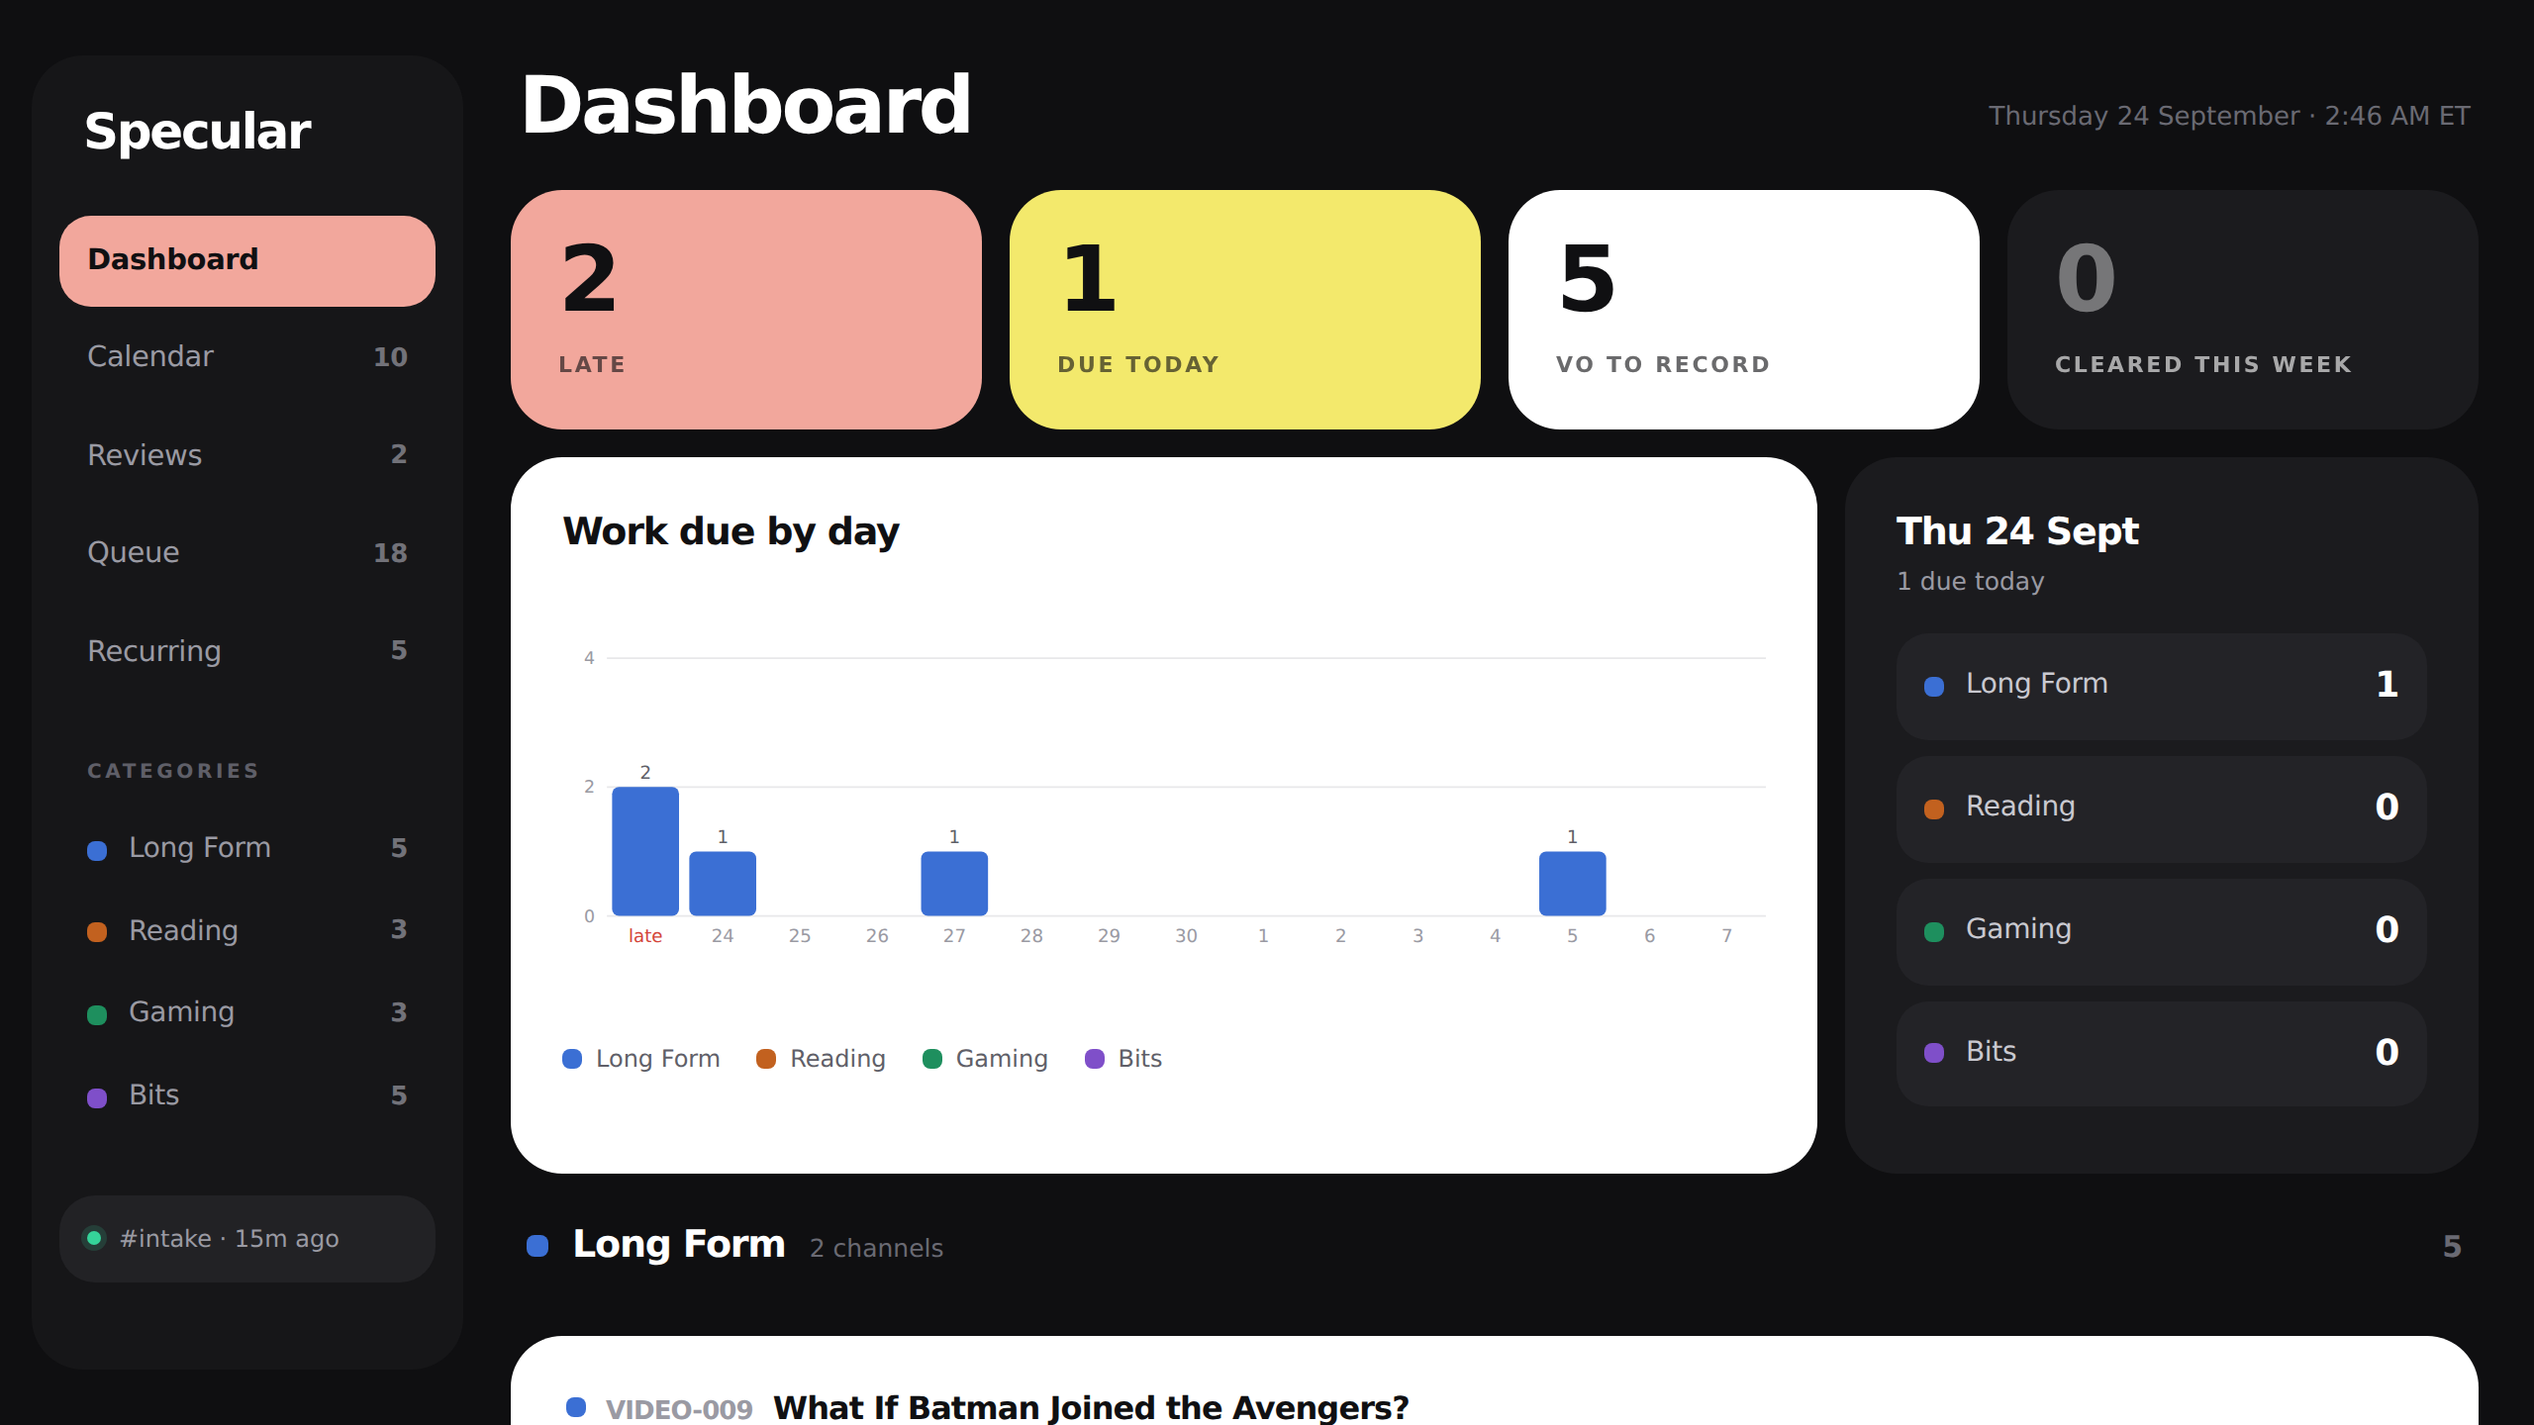
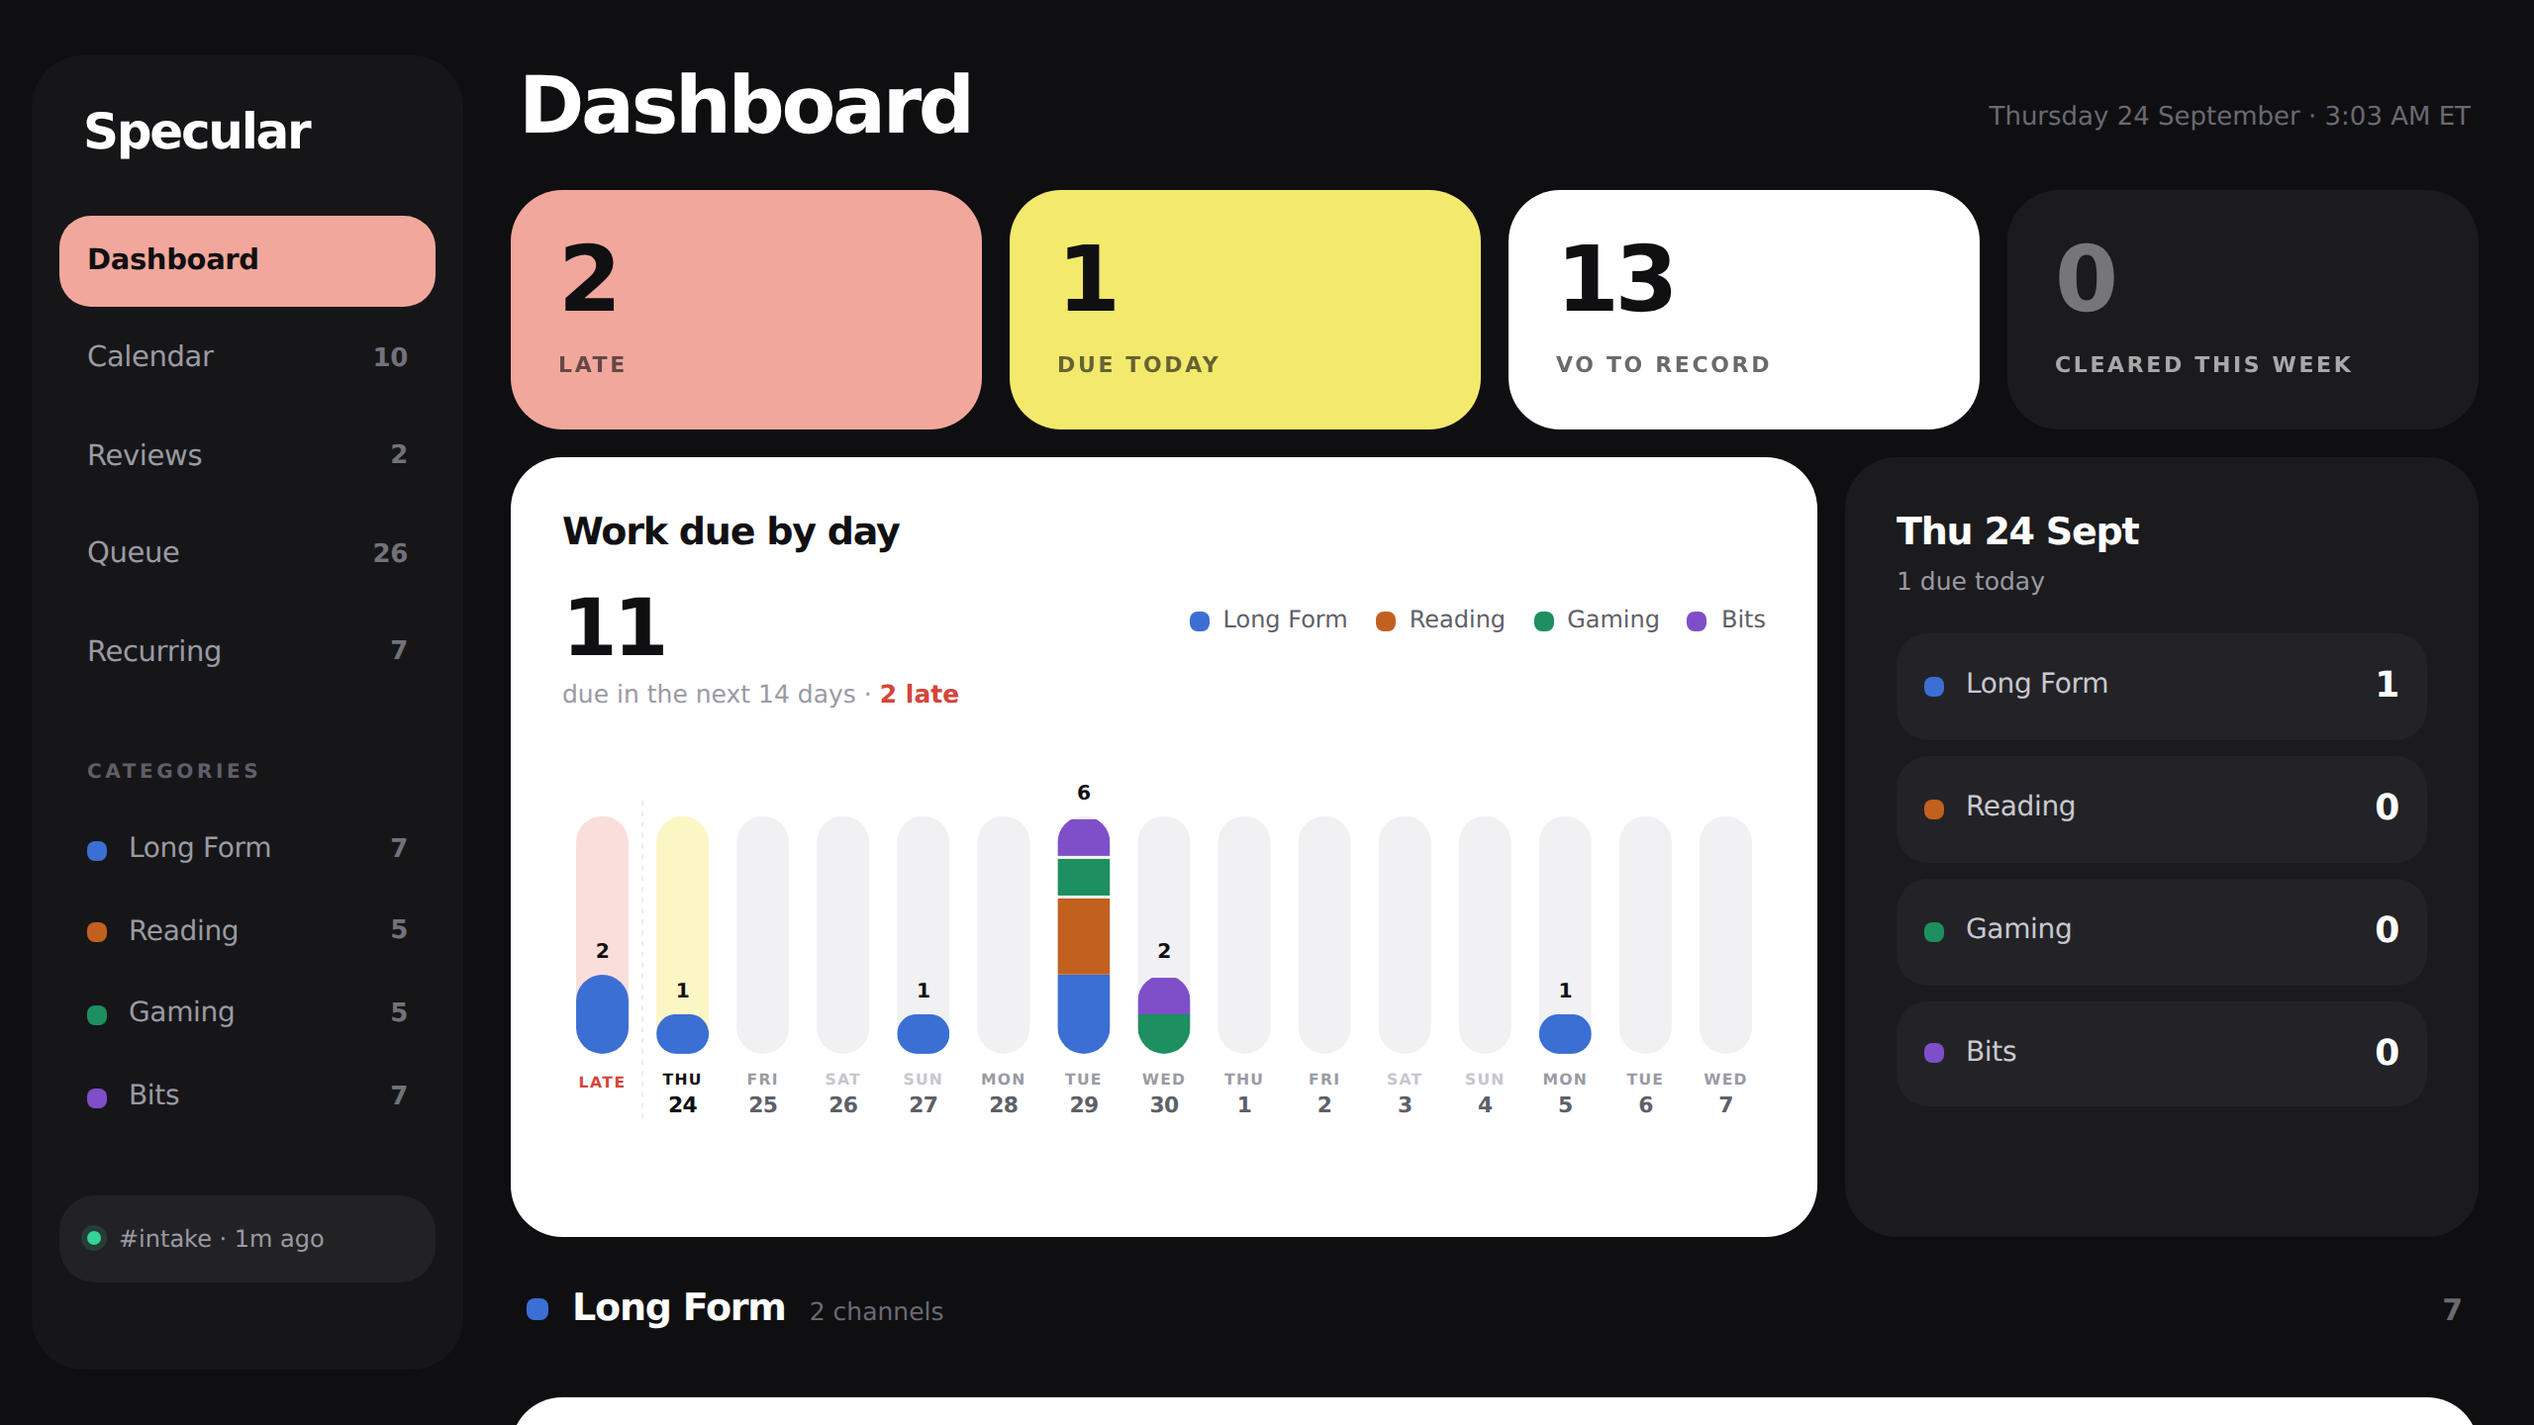
Redesign the chart
It was the one part that still looked borrowed: thin bars floating in a mostly
empty white field, a y-axis of grey ticks, day numbers too small to read.

Now every day keeps its slot as a rounded track whether or not anything is due,
so an empty week reads as empty rather than as missing, and the columns line up
with the card's geometry instead of sitting inside it. Overdue work gets its own
pink column behind a dashed rule — late is a different kind of thing from
scheduled — and today's column is yellow, matching the tile above it, so the
colour language carries across the page.

The y-axis is gone. Each bar states its own count above itself, which is the
number you wanted; a tick scale only asks you to read one number off another.
Labels are the weekday over the date in the studio's own type rather than 10px
grey digits. A headline number leads: how much is due in the fortnight, and how
much is already late.

A stacked bar is now one pill: the segments are clipped to a single rounded
shape with 2px gaps between categories, so a day holding four categories still
reads as one bar. Verified against seeded multi-category days rather than
assumed — the single-category data I had would not have shown a clipping bug.

Claude-Session: https://claude.ai/code/session_01XDwzm3cFSuRZJqUM74mbz3

diff --git a/src/web/page.ts b/src/web/page.ts
@@ -137,11 +137,43 @@ header.page .when { color: #6A6A73; font-size: 13px; margin-left: auto; padding-
 .panel > h2, .group > .head .name, .section-title {
   font-family: var(--display); font-size: 19px; font-weight: 700; letter-spacing: -0.032em; margin: 0 0 18px;
 }
-/* Below a certain width the bars stop being readable, so the chart keeps its
-   size and scrolls rather than shrinking into a smear. */
+.panel > h2 { margin-bottom: 14px; }
+
+/* ── the chart ─────────────────────────────────────────────────────────────
+   A hero number, then columns that keep their slot whether or not anything is
+   due. No y-axis: each bar carries its own count, and a tick scale would only
+   ask you to read one number off another.
+   ────────────────────────────────────────────────────────────────────────── */
+.chart-head { display: flex; align-items: flex-start; gap: 20px; margin-bottom: 2px; flex-wrap: wrap; }
+.chart-head .hero .n {
+  font-family: var(--display); font-size: 40px; font-weight: 800; letter-spacing: -0.05em;
+  line-height: 1; font-variant-numeric: tabular-nums;
+}
+.chart-head .hero .l { color: var(--ink3); font-size: 12.5px; margin-top: 3px; }
+.chart-head .hero .l b { color: var(--late); font-weight: 700; }
+.chart-head .legend { margin: 6px 0 0 auto; gap: 14px; }
+
 .chartscroll { overflow-x: auto; min-width: 0; scrollbar-width: none; -webkit-overflow-scrolling: touch; }
 .chartscroll::-webkit-scrollbar { display: none; }
 .chartscroll svg { display: block; }
+
+.chart .col .track { transition: fill .12s ease; }
+.chart .col:hover .track { fill: #E6E6E9; }
+.chart text.total {
+  font-family: var(--display); font-size: 13px; font-weight: 700; fill: var(--ink);
+  font-variant-numeric: tabular-nums; letter-spacing: -0.02em;
+}
+.chart text.lab { font-family: var(--ui); font-size: 11px; fill: var(--ink3); }
+.chart text.lab.wd { font-size: 10px; font-weight: 600; letter-spacing: 0.08em; text-transform: uppercase; }
+.chart text.lab.wd.weekend { fill: #C6C6CD; }
+.chart text.lab.dn {
+  font-family: var(--display); font-size: 14px; font-weight: 700; fill: var(--ink2);
+  font-variant-numeric: tabular-nums; letter-spacing: -0.03em;
+}
+.chart text.lab.on { fill: var(--ink); font-weight: 700; }
+.chart text.lab.late {
+  font-size: 10px; font-weight: 700; letter-spacing: 0.1em; fill: var(--late);
+}
 .legend { display: flex; gap: 18px; flex-wrap: wrap; margin-top: 16px; font-size: 12px; color: var(--ink2); }
 .legend span { display: flex; align-items: center; gap: 7px; }
 .legend i { width: 10px; height: 10px; border-radius: 4px; background: var(--c); display: block; }
@@ -333,7 +365,11 @@ button.clear:hover { filter: brightness(1.05); }
   .split { grid-template-columns: minmax(0, 1fr); gap: 10px; margin-bottom: 10px; }
   .panel { padding: 18px 18px 20px; border-radius: 20px; }
   .panel > h2, .group > .head .name, .section-title { font-size: 17px; margin-bottom: 14px; }
-  .chartscroll svg { width: 560px; max-width: none; }
+  .chart-head .hero .n { font-size: 34px; }
+  .chart-head .legend { margin-left: 0; }
+  /* Below this width the bars stop being readable, so the chart keeps its size
+     and scrolls rather than shrinking into a smear. */
+  .chartscroll svg { width: 620px; max-width: none; }
   .legend { gap: 12px; font-size: 11.5px; }
 
   /* One column: the title gets the whole width, the deadline sits under it. */
@@ -538,65 +574,113 @@ function rows(list: StoredRecord[], emptyText: string): string {
  * total — colour alone never carries meaning here.
  */
 function dueChart(buckets: DayBucket[]): string {
-  const W = 700, H = 200, PAD_L = 26, PAD_B = 30, PAD_T = 20;
-  const max = Math.max(4, ...buckets.map((b) => b.total));
-  const plotH = H - PAD_B - PAD_T;
-  const slot = (W - PAD_L) / buckets.length;
-  const barW = Math.min(42, slot - 6);
+  const W = 780, H = 236;
+  const PAD_T = 30;          // room for the total above the tallest bar
+  const PAD_B = 52;          // two lines of label under each column
+  const plotH = H - PAD_T - PAD_B;
+  const slot = W / buckets.length;
+  const barW = Math.min(34, slot - 10);
+  const r = barW / 2;
 
+  const max = Math.max(3, ...buckets.map((b) => b.total));
   const order = CATEGORIES.map((c) => c.id);
-  const bars = buckets
+  const today = dateIn(ORG_TZ);
+
+  const columns = buckets
     .map((b, i) => {
-      const x = PAD_L + i * slot + (slot - barW) / 2;
-      let y = H - PAD_B;
+      const x = i * slot + (slot - barW) / 2;
+      const base = PAD_T + plotH;
+      const isToday = b.date === today;
+      const isLate = b.date === null;
+
+      // The track: every day keeps its slot whether or not anything is due,
+      // so an empty week reads as empty rather than as missing.
+      const track = `<rect class="track" x="${x.toFixed(1)}" y="${PAD_T}" width="${barW}"
+        height="${plotH}" rx="${r}" fill="${
+          isToday ? "#FCF6C4" : isLate ? "#FADEDB" : "#F1F1F3"
+        }"/>`;
+
+      // The stack is clipped to one rounded pill, so the whole bar has the
+      // card's geometry and the 2px gaps between categories sit inside it.
+      const total = b.total;
+      const stackH = (total / max) * plotH;
+      const clipId = `clip${i}`;
+      const clip = `<clipPath id="${clipId}"><rect x="${x.toFixed(1)}"
+        y="${(base - stackH).toFixed(1)}" width="${barW}" height="${stackH.toFixed(1)}"
+        rx="${Math.min(r, stackH / 2).toFixed(1)}"/></clipPath>`;
+
+      let y = base;
       const segs = order
         .filter((id) => (b.counts[id] ?? 0) > 0)
-        .map((id, n, arr) => {
-          const n_ = b.counts[id] ?? 0;
-          const h = (n_ / max) * plotH;
+        .map((id, n) => {
+          const count = b.counts[id] ?? 0;
+          const h = (count / max) * plotH;
           y -= h;
-          const top = n === arr.length - 1;
-          // 2px surface gap between stacked segments; rounded data-end on top.
-          return `<rect x="${x.toFixed(1)}" y="${(y + (n === 0 ? 0 : 1)).toFixed(1)}"
-            width="${barW}" height="${Math.max(1, h - (n === 0 ? 0 : 1)).toFixed(1)}"
-            fill="${COLOURS[id]}" rx="${top ? 4 : 0}"><title>${esc(
-              `${b.date ?? "overdue"} · ${LABELS[id]}: ${n_}`,
-            )}</title></rect>`;
+          const gap = n === 0 ? 0 : 2;
+          return `<rect x="${x.toFixed(1)}" y="${(y + gap).toFixed(1)}" width="${barW}"
+            height="${Math.max(1, h - gap).toFixed(1)}" fill="${COLOURS[id]}"
+            ><title>${esc(`${b.date ?? "overdue"} · ${LABELS[id]}: ${count}`)}</title></rect>`;
         })
         .join("");
 
-      const label = b.date
-        ? new Intl.DateTimeFormat("en-GB", { timeZone: ORG_TZ, day: "numeric" }).format(
-            new Date(`${b.date}T12:00:00Z`),
-          )
-        : "late";
+      const stack = total
+        ? `${clip}<g clip-path="url(#${clipId})">${segs}</g>`
+        : "";
 
-      return `${segs}
-        ${b.total ? `<text x="${(x + barW / 2).toFixed(1)}" y="${(y - 5).toFixed(1)}"
-          text-anchor="middle" font-size="10.5" fill="#5F5F68"
-          font-variant-numeric="tabular-nums">${b.total}</text>` : ""}
-        <text x="${(x + barW / 2).toFixed(1)}" y="${H - PAD_B + 15}" text-anchor="middle"
-          font-size="10.5" fill="${b.date ? "#9A9AA3" : "#D4453A"}">${esc(label)}</text>`;
+      // The count sits above its own bar. No y-axis: the number is the value,
+      // and a tick scale would only ask you to read one off the other.
+      const count = total
+        ? `<text class="total" x="${(x + barW / 2).toFixed(1)}" y="${(base - stackH - 11).toFixed(1)}"
+            text-anchor="middle">${total}</text>`
+        : "";
+
+      const at = b.date ? new Date(`${b.date}T12:00:00Z`) : null;
+      const weekday = at
+        ? new Intl.DateTimeFormat("en-GB", { timeZone: "UTC", weekday: "short" }).format(at)
+        : "";
+      const dayNum = at
+        ? new Intl.DateTimeFormat("en-GB", { timeZone: "UTC", day: "numeric" }).format(at)
+        : "";
+      const weekend = at ? [0, 6].includes(at.getUTCDay()) : false;
+
+      const labels = isLate
+        ? `<text class="lab late" x="${(x + barW / 2).toFixed(1)}" y="${base + 22}"
+             text-anchor="middle">LATE</text>`
+        : `<text class="lab wd${weekend ? " weekend" : ""}${isToday ? " on" : ""}"
+             x="${(x + barW / 2).toFixed(1)}" y="${base + 20}" text-anchor="middle">${esc(weekday)}</text>
+           <text class="lab dn${isToday ? " on" : ""}" x="${(x + barW / 2).toFixed(1)}"
+             y="${base + 38}" text-anchor="middle">${esc(dayNum)}</text>`;
+
+      return `<g class="col">${track}${stack}${count}${labels}</g>`;
     })
     .join("");
 
-  const ticks = [0, Math.ceil(max / 2), max]
-    .map((v) => {
-      const y = H - PAD_B - (v / max) * plotH;
-      return `<line x1="${PAD_L}" x2="${W}" y1="${y.toFixed(1)}" y2="${y.toFixed(1)}"
-        stroke="#E8E8EA" stroke-width="1"/>
-      <text x="${PAD_L - 7}" y="${(y + 3.5).toFixed(1)}" text-anchor="end" font-size="10"
-        fill="#9A9AA3" font-variant-numeric="tabular-nums">${v}</text>`;
-    })
-    .join("");
+  // A rule after the overdue slot: what is late is a different kind of thing
+  // from what is merely scheduled.
+  const dividerX = slot;
+  const divider = `<line x1="${dividerX.toFixed(1)}" x2="${dividerX.toFixed(1)}" y1="${PAD_T - 10}"
+    y2="${(PAD_T + plotH + 44).toFixed(1)}" stroke="#E8E8EA" stroke-width="1" stroke-dasharray="3 4"/>`;
+
+  const ahead = buckets.reduce((n, b) => (b.date ? n + b.total : n), 0);
+  const late = buckets.find((b) => b.date === null)?.total ?? 0;
 
   const legend = CATEGORIES.map(
     (c) => `<span style="--c:${c.color}"><i></i>${esc(c.label)}</span>`,
   ).join("");
 
-  return `<div class="chartscroll"><svg viewBox="0 0 ${W} ${H}" width="100%" height="${H}" role="img"
-      aria-label="Work due by day, stacked by category">${ticks}${bars}</svg></div>
-    <div class="legend">${legend}</div>`;
+  return `<div class="chart">
+    <div class="chart-head">
+      <div class="hero">
+        <div class="n">${ahead}</div>
+        <div class="l">due in the next 14 days${late ? ` · <b>${late} late</b>` : ""}</div>
+      </div>
+      <div class="legend">${legend}</div>
+    </div>
+    <div class="chartscroll">
+      <svg viewBox="0 0 ${W} ${H}" width="100%" height="${H}" role="img"
+        aria-label="Work due by day, stacked by category">${divider}${columns}</svg>
+    </div>
+  </div>`;
 }
 
 /** One category's slice of the queue, headed and counted. */

diff --git a/BOARD.md b/BOARD.md
@@ -8,6 +8,17 @@ short records does not need a bundler.
 
 ## What's on it
 
+**Work due by day** — a headline count, then a column per day.
+
+![The chart](docs/chart.png)
+
+Every day keeps its slot whether or not anything is due, so an empty week reads
+as empty rather than as missing. Overdue work collects in its own pink column
+at the left, behind a dashed rule; today's column is yellow, matching the tile
+above it. Each bar carries its own count, so there is no y-axis to read a
+number off. Where a day holds more than one category the bar is one pill with
+2px gaps between them.
+
 **VO to record**, soonest first — the spine of the day. A deadline the parser
 worked out rather than read is marked *air date − 6 days* in orange, so a
 derived time never reads as a stated one.
